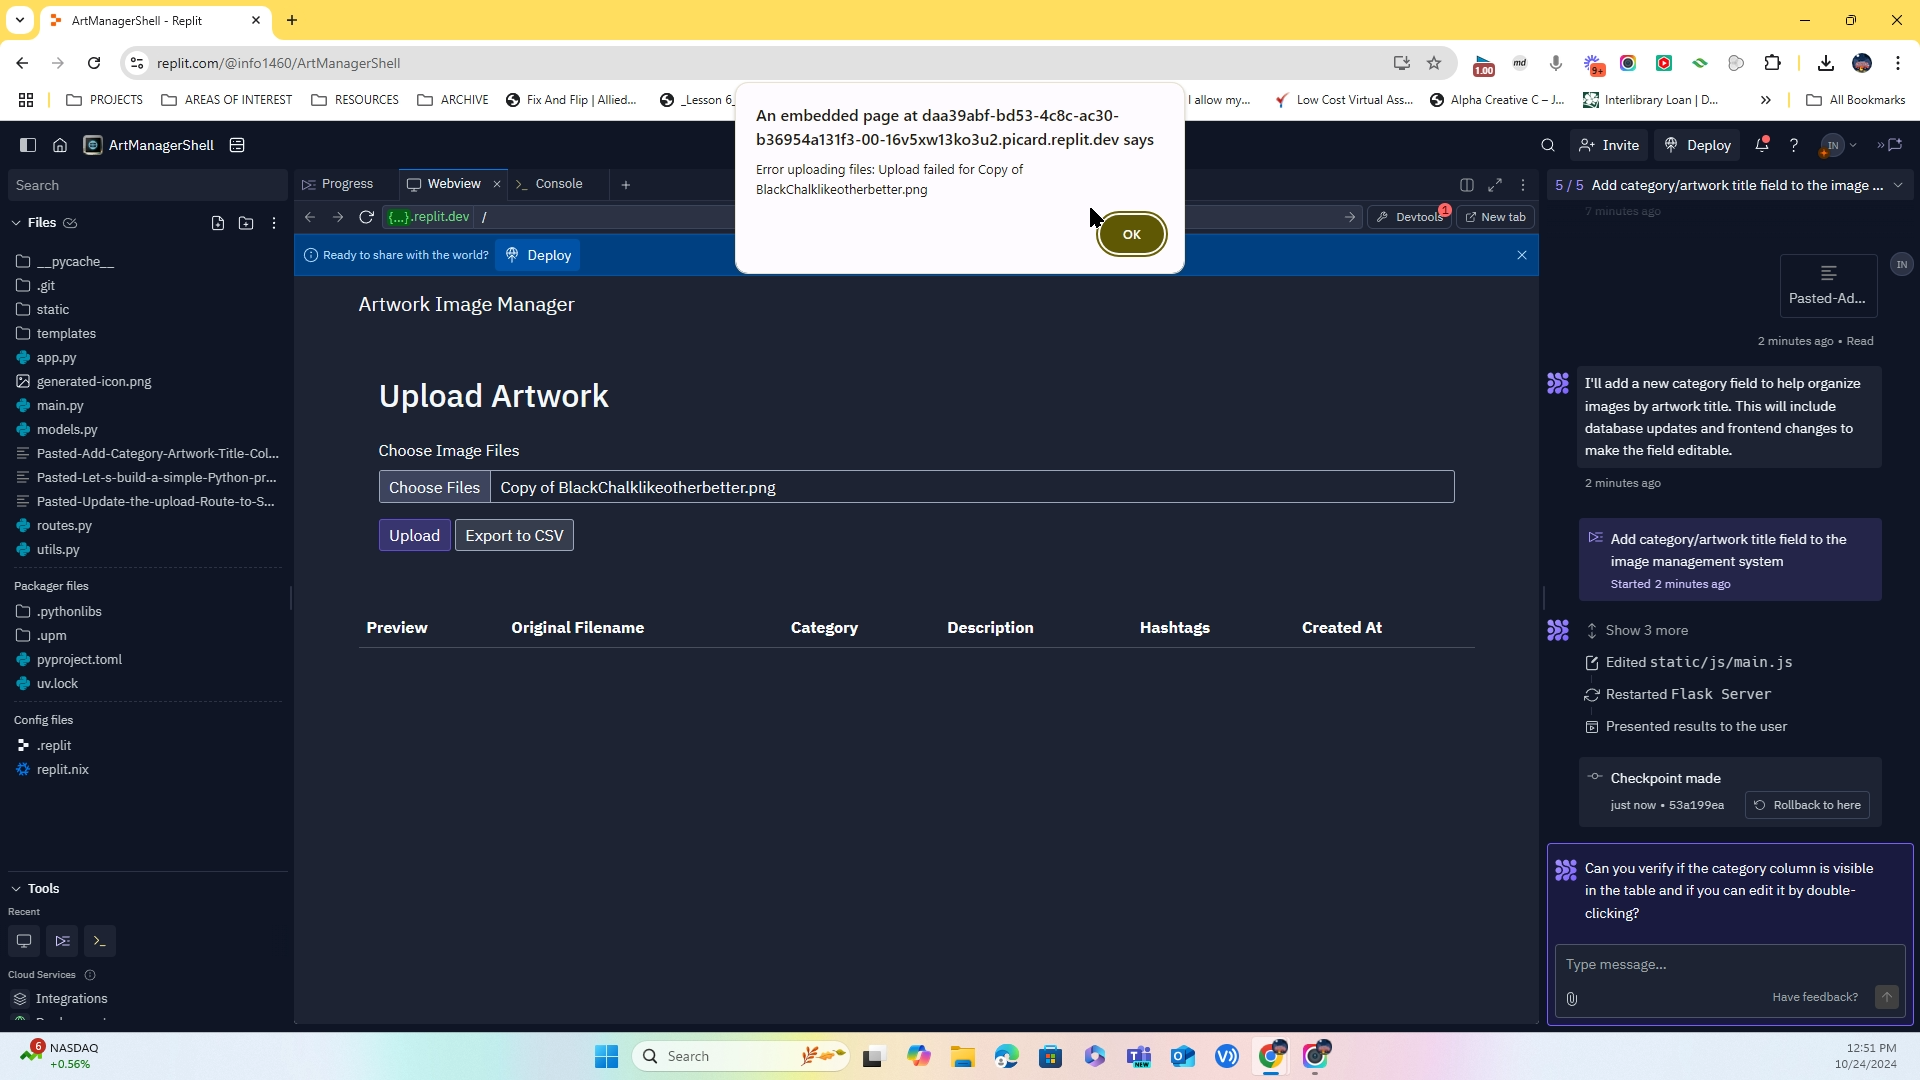
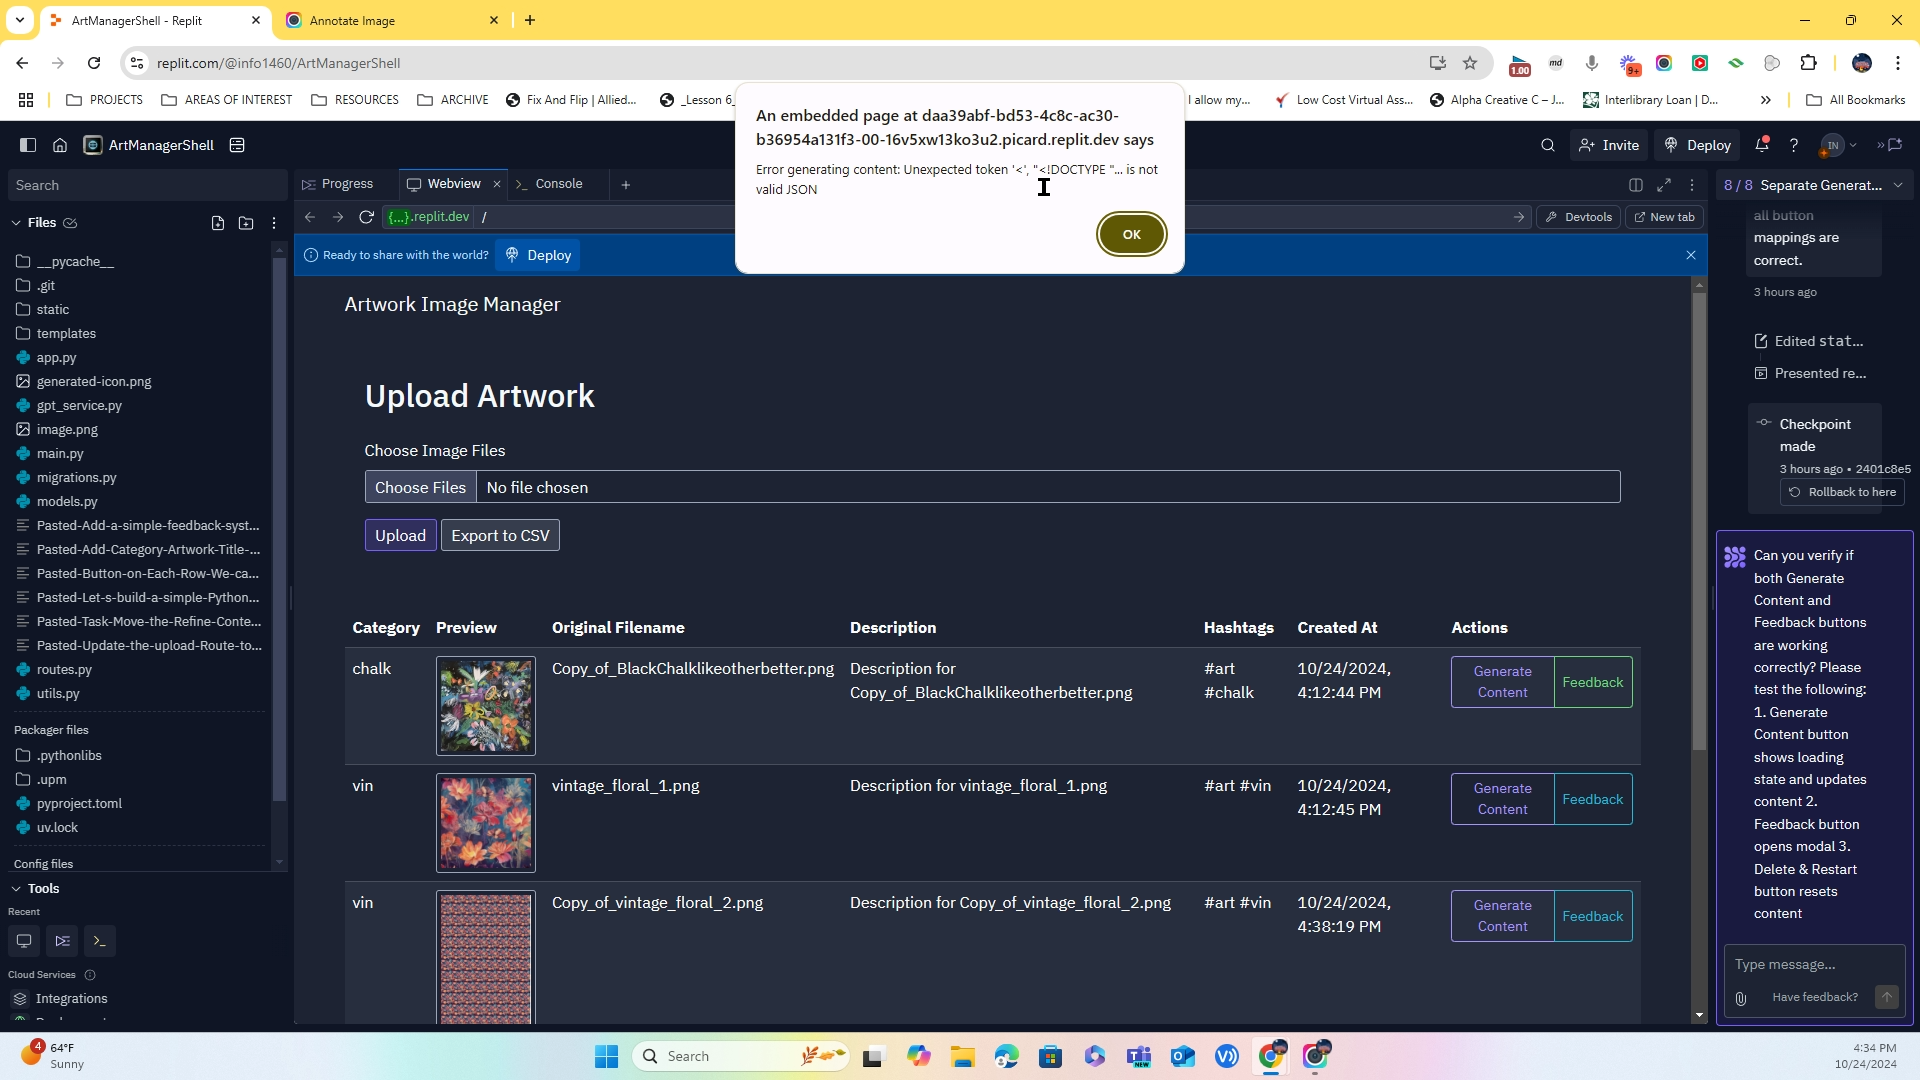
Agent query: Please verify if: 1. Generate Content and Feedback buttons are separated and working 2. Delete & Restart shows proper loading states and error messages 3. The modal closes properly after operations

diff --git a/static/js/main.js b/static/js/main.js
@@ -33,7 +33,8 @@ document.addEventListener('DOMContentLoaded', function() {
                 });
                 
                 if (!response.ok) {
-                    throw new Error(`Upload failed for ${file.name}`);
+                    const error = await response.json();
+                    throw new Error(error.error || `Upload failed for ${file.name}`);
                 }
                 
                 const data = await response.json();
@@ -253,7 +254,8 @@ document.addEventListener('DOMContentLoaded', function() {
                 });
                 
                 if (!response.ok) {
-                    throw new Error('Failed to refine content');
+                    const error = await response.json();
+                    throw new Error(error.error || 'Failed to refine content');
                 }
                 
                 const refinedImage = await response.json();
@@ -278,24 +280,46 @@ document.addEventListener('DOMContentLoaded', function() {
                 });
                 
                 if (!response.ok) {
-                    throw new Error('Failed to reset content');
+                    const error = await response.json();
+                    let errorMessage = 'Failed to reset content';
+                    
+                    // Handle specific error cases
+                    switch (error.code) {
+                        case 'NOT_FOUND':
+                            errorMessage = 'Image not found';
+                            break;
+                        case 'NO_CONTENT':
+                            errorMessage = 'No content to reset';
+                            break;
+                        case 'NO_CATEGORY':
+                            errorMessage = 'Please set a category before resetting content';
+                            break;
+                        case 'RATE_LIMIT':
+                            errorMessage = 'Rate limit exceeded. Please try again later';
+                            break;
+                        default:
+                            errorMessage = error.error || errorMessage;
+                    }
+                    throw new Error(errorMessage);
                 }
                 
                 const resetImage = await response.json();
-                updateTableContent(resetImage);
-                feedbackModal.hide();
-                
-                // Reset feedback button style
-                const row = document.querySelector(`tr[data-image-id="${imageId}"]`);
-                if (row) {
-                    const feedbackBtn = row.querySelector('.feedback-btn');
-                    if (feedbackBtn) {
-                        feedbackBtn.classList.remove('btn-outline-success');
-                        feedbackBtn.classList.add('btn-outline-info');
+                if (resetImage.success) {
+                    updateTableContent(resetImage);
+                    feedbackModal.hide();
+                    
+                    // Reset feedback button style
+                    const row = document.querySelector(`tr[data-image-id="${imageId}"]`);
+                    if (row) {
+                        const feedbackBtn = row.querySelector('.feedback-btn');
+                        if (feedbackBtn) {
+                            feedbackBtn.classList.remove('btn-outline-success');
+                            feedbackBtn.classList.add('btn-outline-info');
+                        }
                     }
                 }
             } catch (error) {
-                alert('Error resetting content: ' + error.message);
+                alert(error.message);
             } finally {
                 newRestartBtn.disabled = false;
                 newRestartBtn.textContent = 'Delete & Restart';
@@ -327,7 +351,8 @@ document.addEventListener('DOMContentLoaded', function() {
         try {
             const response = await fetch('/images');
             if (!response.ok) {
-                throw new Error('Failed to load images');
+                const error = await response.json();
+                throw new Error(error.error || 'Failed to load images');
             }
             const images = await response.json();
             images.forEach(image => addImageToTable(image));

diff --git a/routes.py b/routes.py
@@ -50,8 +50,12 @@ def upload_file():
 
 @app.route('/images', methods=['GET'])
 def get_images():
-    images = Image.query.order_by(Image.created_at.desc()).all()
-    return jsonify([img.to_dict() for img in images])
+    try:
+        images = Image.query.order_by(Image.created_at.desc()).all()
+        return jsonify([img.to_dict() for img in images])
+    except Exception as e:
+        db.session.rollback()
+        return jsonify({'error': 'Failed to fetch images', 'details': str(e)}), 500
 
 @app.route('/update/<int:image_id>', methods=['POST'])
 def update_image(image_id):
@@ -144,24 +148,52 @@ def refine_content(image_id):
 
 @app.route('/reset_content/<int:image_id>', methods=['POST'])
 def reset_content(image_id):
+    # Validate image exists
     image = Image.query.get(image_id)
     if not image:
-        return jsonify({'error': 'Image not found'}), 404
+        return jsonify({'error': 'Image not found', 'code': 'NOT_FOUND'}), 404
+
+    # Validate image has content to reset
+    if not image.description and not image.hashtags:
+        return jsonify({'error': 'No content to reset', 'code': 'NO_CONTENT'}), 400
+
+    # Validate category exists for content generation
+    if not image.category:
+        return jsonify({
+            'error': 'Cannot reset content without a category', 
+            'code': 'NO_CATEGORY'
+        }), 400
 
     try:
-        # Reset content using GPT without any feedback
+        # Generate new content
         description, hashtags = gpt_service.generate_artwork_content(
             category=image.category,
             filename=image.original_filename
         )
+
+        # Update image with new content
         image.description = description
         image.hashtags = hashtags
         db.session.commit()
-        return jsonify(image.to_dict()), 200
+
+        return jsonify({
+            'success': True,
+            'message': 'Content reset successfully',
+            **image.to_dict()
+        }), 200
 
     except Exception as e:
         db.session.rollback()
-        return jsonify({'error': str(e)}), 500
+        error_message = str(e)
+        if 'rate limit' in error_message.lower():
+            return jsonify({
+                'error': 'Rate limit exceeded. Please try again later.',
+                'code': 'RATE_LIMIT'
+            }), 429
+        return jsonify({
+            'error': f'Failed to reset content: {error_message}',
+            'code': 'GENERATION_ERROR'
+        }), 500
 
 @app.route('/export', methods=['GET'])
 def export_csv():
